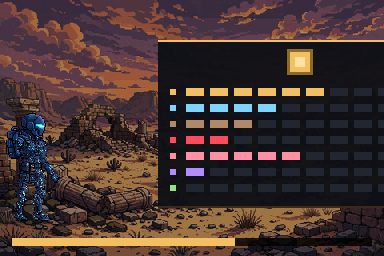
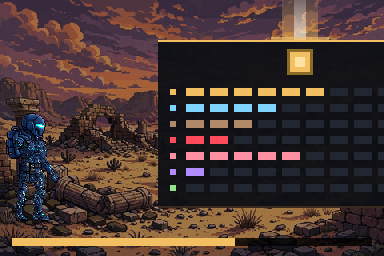
fix(golden): F8 — give the cache-rank emblem its beam (GRAMMAR.beamWidthPx.low)
The cache-rank-panel golden scene read GRAMMAR.beamWidthPx.low, a tier
the grammar never defined, so drawBeam painted NaN widths — nothing —
and the pinned golden certified a beam-less board. The scene's design
comment describes the token emblem hanging 'under a thin beam', and
the .low read was born with the scene in the original Cache Rank slice
(8624cc3): the beam was designed, the tier was missing.

- grammar: add the low tier (36px) a step below standard (54) on the
  same ladder as high (84) / legendary (120)
- goldenScenes: drop the @ts-expect-error + F8 flag comment; the read
  now resolves
- goldenImages.test: F8 regression guard — asserts the low tier is a
  finite positive number and that the rendered shaft actually paints
  (shaft-center pixel vs off-shaft pixel; identical in the broken
  render)
- re-pin the cache-rank-panel baseline (+ its docs sample); all other
  65 baselines byte-identical

Changed region(s): [[0.6875, 0.0, 0.875, 0.1562]]

diff --git a/src/test/goldenImages.test.ts b/src/test/goldenImages.test.ts
@@ -1,6 +1,7 @@
 import { existsSync, readFileSync } from 'node:fs';
 import { join } from 'node:path';
 import { describe, expect, it } from 'vitest';
+import { GRAMMAR } from '@/lib/pixel/grammar';
 import { decodePng, diffFraction } from '@/lib/pixel/pngCodec';
 import { GOLDEN_SCENES } from './golden/goldenScenes';
 
@@ -43,6 +44,29 @@ describe('golden-image regression', () => {
     // Research (0038): the study + completion scenes.
     expect(ids).toContain('research-study');
     expect(ids).toContain('research-complete');
+  });
+
+  // F8 regression guard: the cache-rank scene hangs its token emblem
+  // under a beam read from GRAMMAR.beamWidthPx.low. That tier was
+  // missing, the width resolved to undefined, drawBeam painted NaN
+  // widths (nothing), and the golden happily pinned the beam-less
+  // board. These assertions fail loudly if the tier ever goes missing
+  // again or the shaft stops painting.
+  it('cache-rank-panel: the emblem beam tier resolves and the shaft paints', () => {
+    const width = GRAMMAR.beamWidthPx.low;
+    expect(Number.isFinite(width), 'GRAMMAR.beamWidthPx.low must be a finite number').toBe(true);
+    expect(width).toBeGreaterThan(0);
+    const scene = GOLDEN_SCENES.find((s) => s.id === 'cache-rank-panel');
+    expect(scene).toBeDefined();
+    const img = scene!.render();
+    const brightness = (x: number, y: number) => {
+      const i = (y * img.width + x) * 4;
+      return img.data[i] + img.data[i + 1] + img.data[i + 2];
+    };
+    // Shaft center (300, 20) — inside the beam's white core — must be
+    // clearly brighter than an off-shaft pixel at the same height.
+    // In the beam-less render the two were identical.
+    expect(brightness(300, 20)).toBeGreaterThan(brightness(200, 20) + 40);
   });
 
   for (const goldenScene of GOLDEN_SCENES) {

diff --git a/src/test/golden/goldenScenes.ts b/src/test/golden/goldenScenes.ts
@@ -639,13 +639,12 @@ export const GOLDEN_SCENES: GoldenScene[] = [
     fillRect(img, 158, 40, 284, 2, hexToRgb('#f2c063'), 255);
     fillRect(img, 158, 206, 284, 2, [58, 42, 30], 255);
     // Token emblem: nested amber squares (the diamond read) + beam.
-    // FINDING F8 (tsc-gate triage, see PR body): GRAMMAR.beamWidthPx
-    // has no 'low' tier (only standard/high/legendary), so this beam
-    // width is undefined — drawBeam fills NaN widths and the beam
-    // renders as nothing; the pinned golden therefore shows a
-    // beam-less board. Adding a low tier (and re-pinning) or using
-    // 'standard' changes the pinned image, so the triage flags it.
-    // @ts-expect-error F8: GRAMMAR.beamWidthPx has no 'low' tier (known defect, flagged in PR body)
+    // The beam is the grammar's `low` tier — the thin accent shaft
+    // the scene header describes ("hangs over the board under a thin
+    // beam"). The tier was missing from GRAMMAR until the F8 fix, so
+    // this draw silently rendered nothing and the golden pinned a
+    // beam-less board; goldenImages.test.ts now asserts the shaft
+    // actually paints.
     drawBeam(img, 300, 40, GRAMMAR.beamWidthPx.low, '#F2C063');
     for (const [half, color] of [[13, '#8a6a24'], [10, '#f2c063'], [5, '#ffe1a1']] as const) {
       fillRect(img, 300 - half, 62 - half, half * 2, half * 2, hexToRgb(color), 255);

diff --git a/src/lib/pixel/grammar.ts b/src/lib/pixel/grammar.ts
@@ -13,8 +13,10 @@
  *  G-6 Result flash   — success/failure reads in the same two beats.
  */
 export const GRAMMAR = {
-  /** G-1: beam widths per celebration tier (px at stage scale). */
-  beamWidthPx: { standard: 54, high: 84, legendary: 120 },
+  /** G-1: beam widths per celebration tier (px at stage scale).
+   *  `low` is the thin accent shaft (e.g. the cache-rank emblem's
+   *  hanging beam) — a step below `standard` on the same ladder. */
+  beamWidthPx: { low: 36, standard: 54, high: 84, legendary: 120 },
   /** G-2: the one card geometry. */
   card: { widthPx: 118, borderPx: 2, risePx: 30 },
   /** G-3: progress bar height + the cause label sits above-left. */
